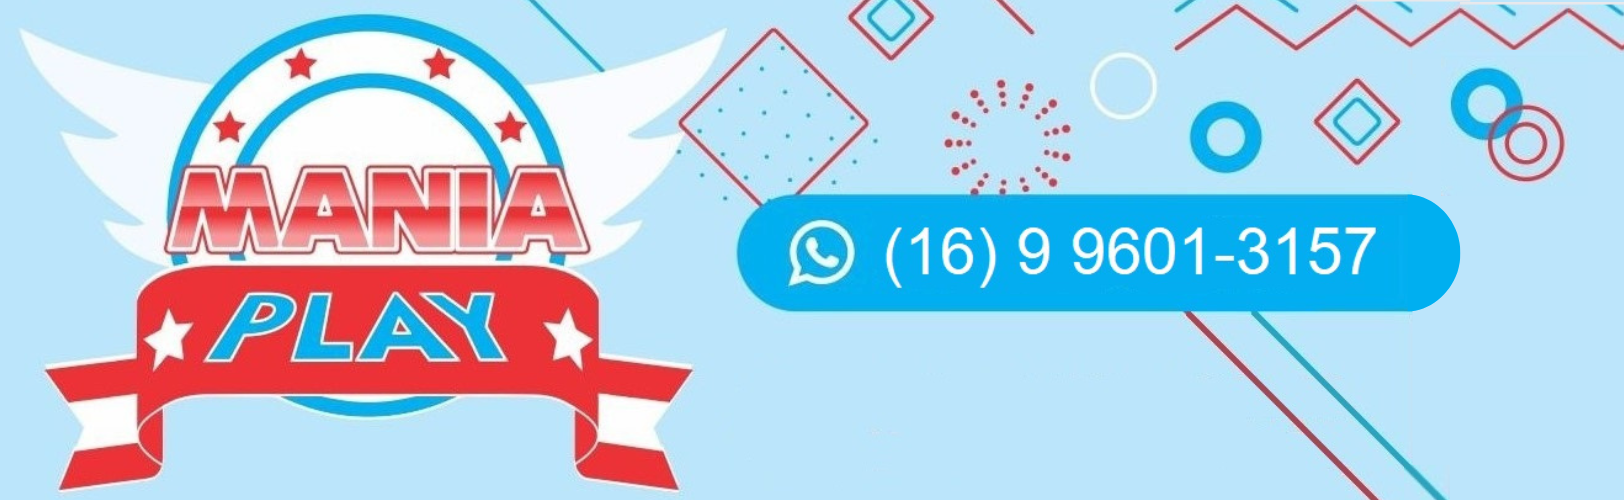
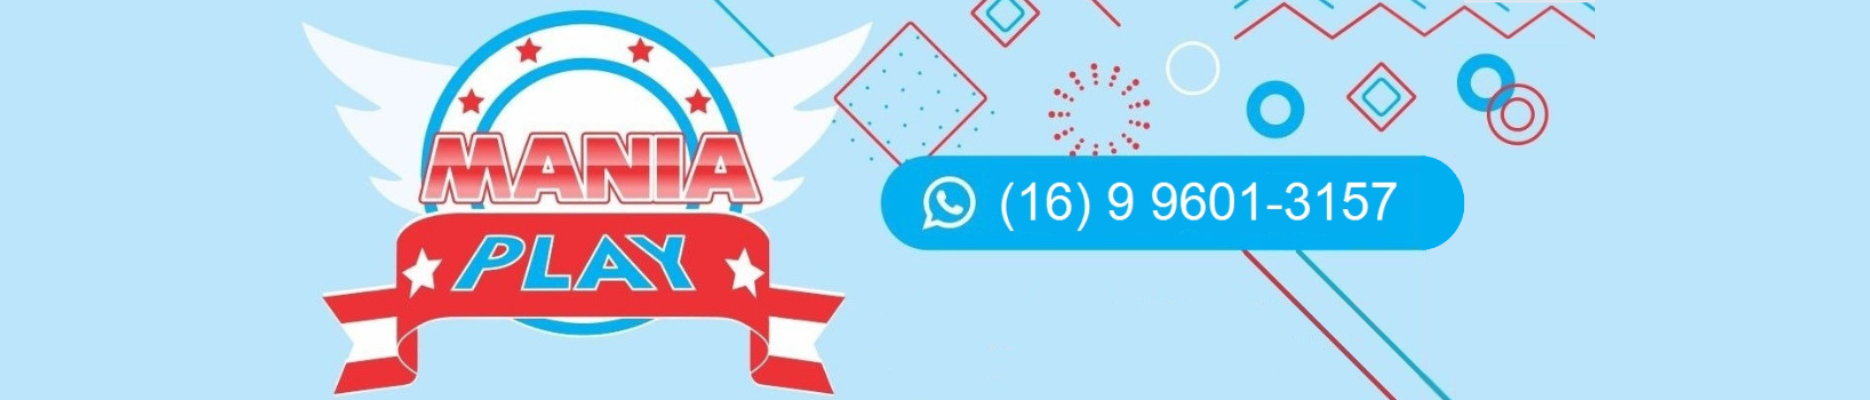
feat:style:Whatsapp button and phone number changed

diff --git a/src/Page/home/style.ts b/src/Page/home/style.ts
@@ -1,34 +1,107 @@
 import styled from 'styled-components';
-import { ImWhatsapp } from 'react-icons/im';
 
 export const Container = styled.div`
-  position: relative;
   display: flex;
   flex-direction: column;
-  justify-content: center;
-  align-items: center;
 `;
 
-export const WhatsAppButton = styled.a`
+export const Buttons = styled.div`
+  display: flex;
+  flex-direction: row;
   position: fixed;
-  top: 91%;
-  left: 90%;
-  z-index: 9999;
+  z-index: 1;
+  border-radius: 8px;
+  margin: 5px;
+  top: 80%;
+  right: 5%;
 
-  @media only screen and (max-width: 600px) {
-    top: 85%;
-    left: 2%;
+  a + a {
+    border-left: 1px solid #000;
+    padding-left: 10px;
   }
-`;
 
-export const WhatsApp = styled(ImWhatsapp)`
-  font-size: 65px;
-  border-radius: 5px;
-  padding: 3px;
-  color: white;
-  background-color: green;
+  a {
+    text-decoration: none;
+    display: flex;
+    align-items: center;
+    margin: 0 5px;
+    padding: 5px;
+  }
+
+  .phoneButton {
+    display: none;
+  }
+
+  .whatsApp {
+    font-size: 80px;
+    color: green;
+  }
+
+  .phone {
+    font-size: 80px;
+    color: green;
+  }
 
   @media only screen and (max-width: 600px) {
-    font-size: 35px;
+    flex-direction: row;
+    justify-content: space-between;
+    background-color: #BCE5FB;
+    align-items: center;
+    padding: 5px;
+    border-radius: 30px;
+    border: 1px solid black;
+    top: 90%;
+    right: 33%;
+
+    .phoneButton {
+      display: flex;
+    }
+
+    .whatsApp,
+    .phone {
+      font-size: 35px;
+    }
+  }
+
+  @media only screen and (min-width: 768px) and (max-width: 900px) {
+    flex-direction: row;
+    justify-content: space-between;
+    background-color: #BCE5FB;
+    align-items: center;
+    padding: 5px;
+    border-radius: 30px;
+    border: 1px solid black;
+    top: 88%;
+    right: 35%;
+
+    .phoneButton {
+      display: flex;
+    }
+
+    .whatsApp,
+    .phone {
+      font-size: 80px;
+    }
+  }
+
+  @media only screen and (min-width: 901px) and (max-width: 1024px) {
+    flex-direction: row;
+    justify-content: space-between;
+    background-color: #BCE5FB;
+    align-items: center;
+    padding: 5px;
+    border-radius: 30px;
+    border: 1px solid black;
+    top: 91%;
+    right: 38%;
+
+    .phoneButton {
+      display: flex;
+    }
+
+    .whatsApp,
+    .phone {
+      font-size: 80px;
+    }
   }
 `;

diff --git a/src/Page/home/index.tsx b/src/Page/home/index.tsx
@@ -1,23 +1,38 @@
-import { Container, WhatsAppButton, WhatsApp } from './style';
 import { SessionAboutUs } from '../../components/session/sessionAboutUs';
 import { SessionModels } from '../../components/session/sessionModels';
 import { SessionHowItWorks } from '../../components/session/sessionHowItWorks';
+import { Container, Buttons } from './style';
+import { FaWhatsappSquare, FaPhoneAlt } from 'react-icons/fa';
 
 export function Home() {
+  const phoneNumber = '016996013157';
+
+  const handlePhoneButtonClick = () => {
+    window.location.href = `tel:${phoneNumber}`;
+  };
+
   return (
-    <Container
-      aria-label="Página inicial"
-      title="Página inicial da Mania Play Brinquedos"
-    >
-      <WhatsAppButton
-        href="https://api.whatsapp.com/send?phone=5516996013157&text=Ol%C3%A1%20Mania%20Play%20Brinquedos,%20vim%20atrav%C3%A9s%20do%20seu%20site,%20gostaria%20de%20obter%20mais%20informa%C3%A7%C3%B5es."
-        target="_blank"
-        rel="noopener noreferrer"
-        aria-label="Botão do WhatsApp da Mania Play Brinquedos"
-        title="Botão do WhatsApp da Mania Play Brinquedos"
-      >
-        <WhatsApp alt="Ícone representando o WhatsApp de Mania Play Brinquedos" />
-      </WhatsAppButton>
+    <Container aria-label="Página inicial">
+      <Buttons>
+        <a
+          href="https://api.whatsapp.com/send?phone=5516996013157&text=Ol%C3%A1%20Mania%20Play%20Brinquedos,%20vim%20atrav%C3%A9s%20do%20seu%20site,%20gostaria%20de%20obter%20mais%20informa%C3%A7%C3%B5es"
+          target="_blank"
+          rel="noopener noreferrer"
+          aria-label="Número do WhatsApp de Mania Play Brinquedos"
+          title="WhatsApp de Mania Play Brinquedos"
+        >
+          <FaWhatsappSquare
+            className="whatsApp"
+            alt="Ícone representando o WhatsApp de Mania Play Brinquedos"
+          />
+        </a>
+        <a className="phoneButton" onClick={handlePhoneButtonClick}>
+          <FaPhoneAlt
+            className="phone"
+            alt="Ícone representando o telefone de Mania Play Brinquedos"
+          />
+        </a>
+      </Buttons>
       <SessionAboutUs />
       <SessionHowItWorks />
       <SessionModels />

diff --git a/src/components/session/sessionAboutUs/style.ts b/src/components/session/sessionAboutUs/style.ts
@@ -3,7 +3,7 @@ import styled from 'styled-components';
 export const AboutUsSession = styled.div`
   display: flex;
   flex-direction: column;
-  margin-top: 10px;
+  margin: 10px auto;
   max-width: 1440px;
 
   h2 {

diff --git a/src/components/header/style.ts b/src/components/header/style.ts
@@ -9,7 +9,6 @@ export const Container = styled.div`
 
   @media only screen and (max-width: 600px) {
     img {
-      width: 100vw;
       height: auto;
     }
   }
